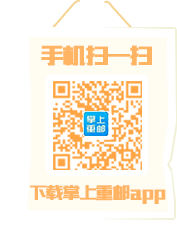
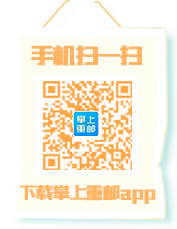
修改了飞机阴影

diff --git a/css/common.css b/css/common.css
@@ -436,6 +436,7 @@ body {
 	width: 102px;
 	height: 38px;
 	background: url('../img/propellerRight.png') no-repeat center center;
+
 }
 #main .fixedBox#rightBox .plane .body {
 	top: 42px;
@@ -445,7 +446,8 @@ body {
 }
 #main .fixedBox#rightBox .code {
 	position: absolute;
-	top: 120px;
+	left: -11px;
+	top: 123px;
 	width: 175px;
 	height: 231px;
 	/*margin-left: -20px;*/
@@ -460,7 +462,7 @@ body {
 }
 #main .fixedBox#leftBox .plane .propeller {
 	top: 4px;
-	left: -7px;
+	left: 0px;
 	width: 102px;
 	height: 38px;
 	background: url('../img/propellerLeft.png') no-repeat center center;
@@ -474,8 +476,8 @@ body {
 }
 #main .fixedBox#leftBox .code {
 	position: absolute;
-	left: -8px;
-	top: 120px;
+	left: 16px;
+	top: 123px;
 	width: 175px;
 	height: 231px;
 	background: url('../img/QRcodeLeft.png') no-repeat center center ;

diff --git a/css/main_page.css b/css/main_page.css
@@ -441,7 +441,8 @@ body {
 }
 #main .fixedBox#rightBox .code {
 	position: absolute;
-	top: 120px;
+	left: -11px;
+	top: 123px;
 	width: 175px;
 	height: 231px;
 	/*margin-left: -20px;*/
@@ -456,7 +457,7 @@ body {
 }
 #main .fixedBox#leftBox .plane .propeller {
 	top: 4px;
-	left: -7px;
+	left: 0px;
 	width: 102px;
 	height: 38px;
 	background: url('../img/propellerLeft.png') no-repeat center center;
@@ -470,8 +471,8 @@ body {
 }
 #main .fixedBox#leftBox .code {
 	position: absolute;
-	left: -8px;
-	top: 120px;
+	left: 16px;
+	top: 123px;
 	width: 175px;
 	height: 231px;
 	background: url('../img/QRcodeLeft.png') no-repeat center center ;
